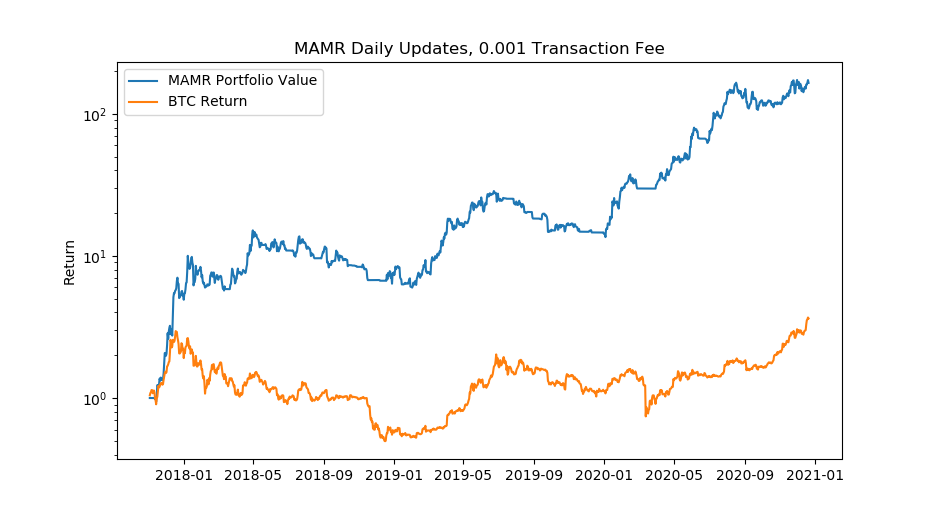
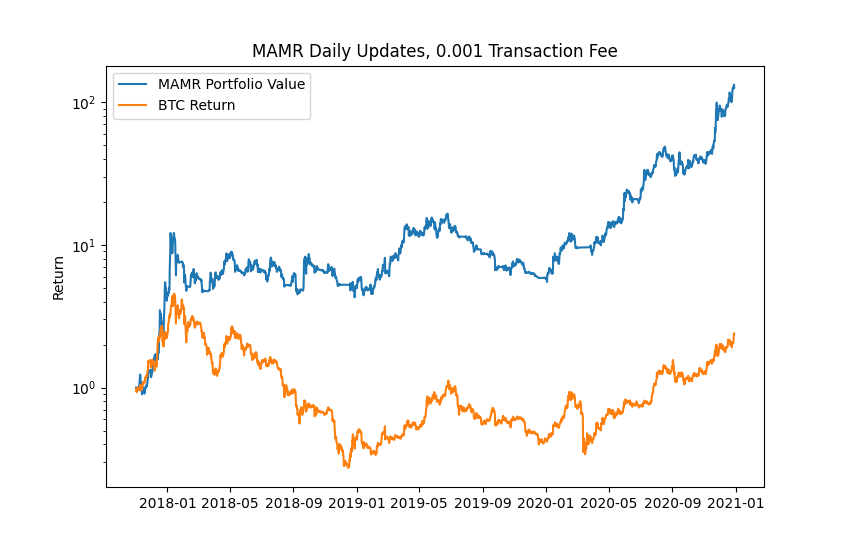
Readme

diff --git a/MAMR.py b/MAMR.py
@@ -28,7 +28,7 @@ def main():
 
 	#manager = MAMRPortfolioManager(len(CURRENCIES) + 1, 11.75, 371, 995, 0.001, 23)
 	#manager = MAMRPortfolioManager(len(CURRENCIES) + 1, 4.105, 9.5, 1000, 0.00075, 26)
-	manager = MAMRPortfolioManager(len(CURRENCIES) + 1, 4.105, 9.5, 1000, 0.0, 26)
+	manager = MAMRPortfolioManager(len(CURRENCIES) + 1, 4.105, 9.5, 1000, 0.001, 26)
 
 	for change, time in zip(price_changes, times):
 		manager.update(time, change)
@@ -53,7 +53,6 @@ def main():
 
 	for i, currency in enumerate(['USDT'] + CURRENCIES):
 		plt.plot([p[i] for p in manager.portfolios], label=currency)
-		break
 	plt.legend()
 
 	plt.show()

diff --git a/README.md b/README.md
@@ -7,21 +7,25 @@ Parameters fitted to maximise the mean daily return, algorithm runs every 30 min
 
 Current portfolio consists of 8 large market cap coins.
 
-### MAMR Daily
-![Portfolio through time](https://raw.githubusercontent.com/alfredholmes/BinancePAMR/master/results/Figure_0.png)
+### MAMR 12 hour
+![MAMR 12 hour](https://raw.githubusercontent.com/alfredholmes/BinancePAMR/master/results/Figure_0.png)
+#### Example Portfolio Through Time
+![Portfolio through time](https://raw.githubusercontent.com/alfredholmes/BinancePAMR/master/results/example_portfolio.png)
 
 ### Requirements
 	pip3 install requests numpy scipy  
+
+### Binance Trading Bot
+Create a file keys.py and assign the api key and secret key from a binance account to the variables api and secret respectivley in the keys file. When the bot runs it gets the spot portfolio of the tracked currencies (currencies in the CURRENCIES variable) and runs the MAMR algorithm to calculate the next portfolio and then makes the trade (not currently implemented) in a way that minimises the trade volume to reduce fees. The state, allong with the market data is then pickled which is opened on the next run. The parameters in the implementation expect the script to be run every 12 hours. 
 
 ### To run PAMR/MAMR simulations
 	git clone https://github.com/alfredholmes/binancePAMR.git
 	cd binancePAMR
 	python3 data/get_candles_spot.py 
-	python3 analysis/PAMR.py
-	python3 analysis/MAMR.py
+	python3 PAMR.py
+	python3 MAMR.py
 
-currently MAMR outperforms PAMR.
-
+In general MAMR outperforms PAMR for cryptocurrency portfolios.
 
 ### References / useful papers
 #### Passive aggressive mean reversion 
